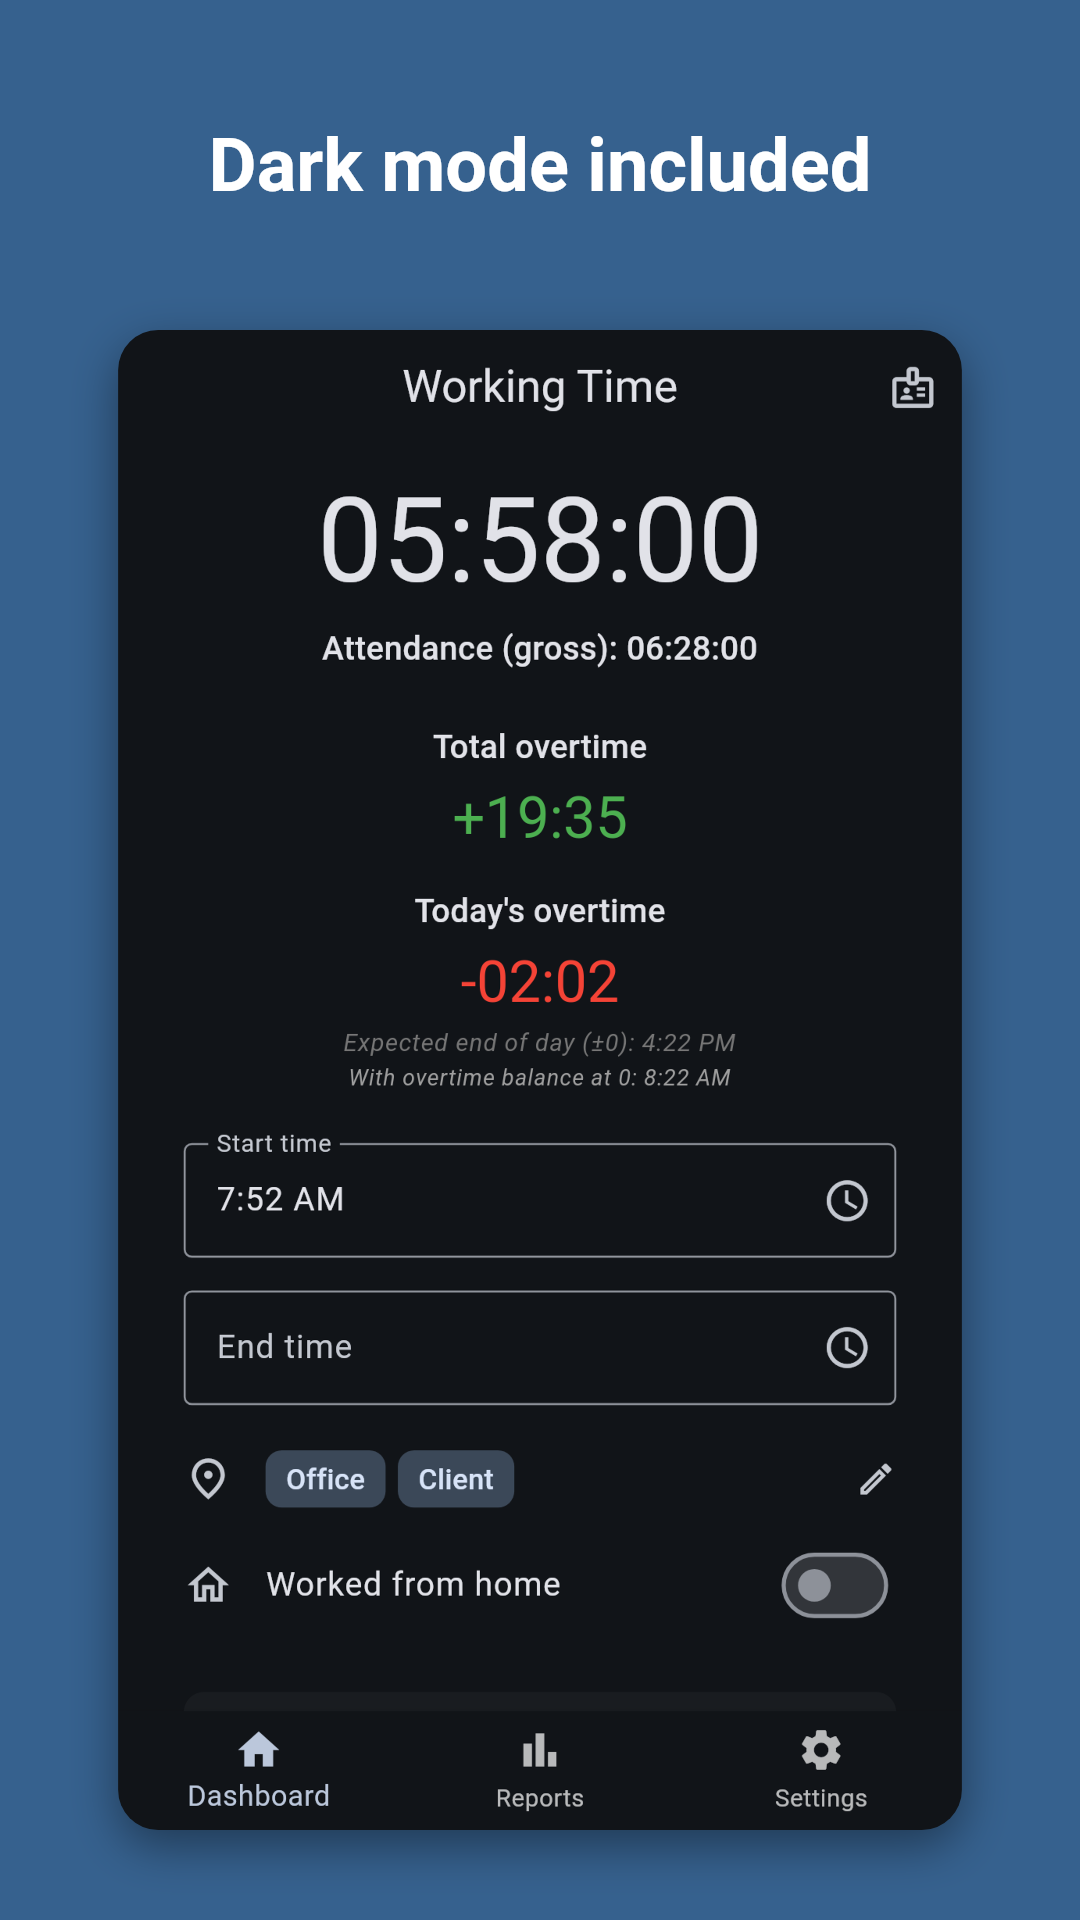
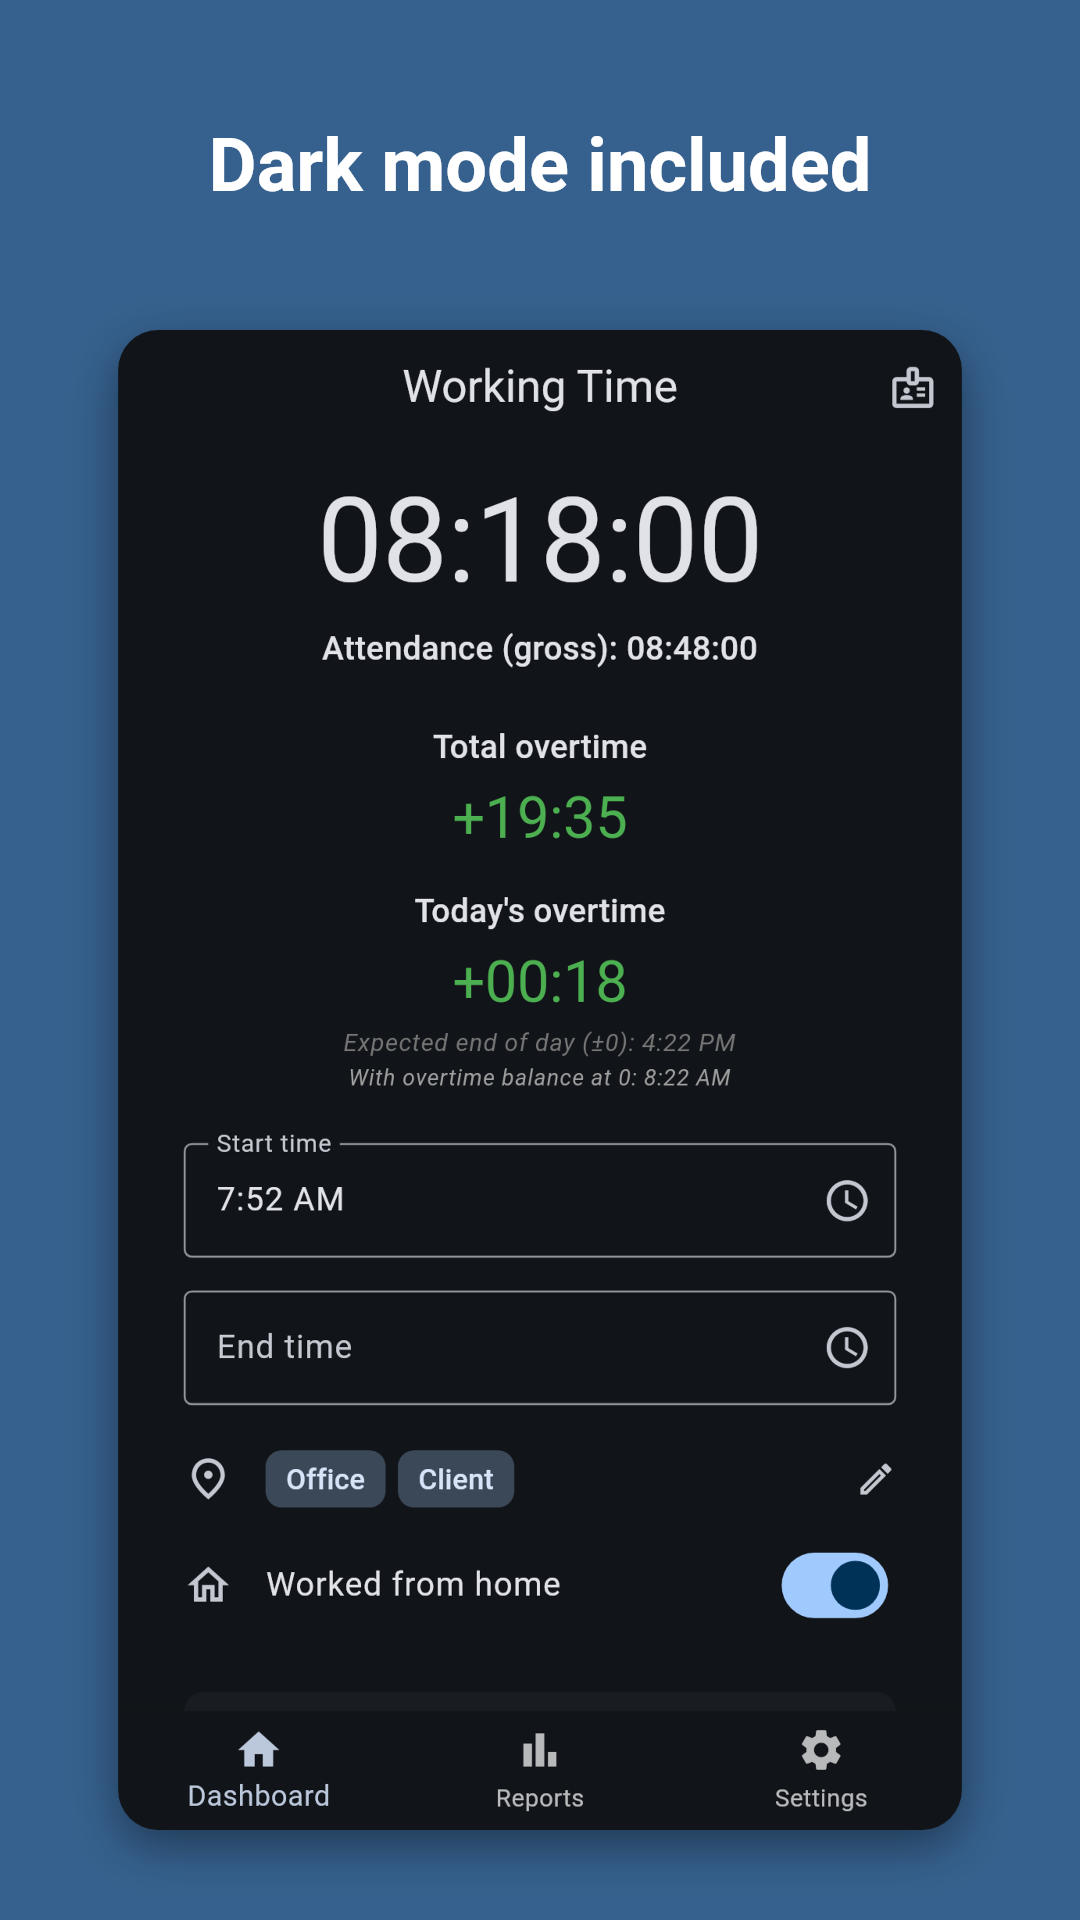
feat(mobile): Store-Bilder ohne Minusstunden, Blatt „Arbeitsorte“ als Bild 7 (#559)
Teil 1 von #559, Nachbesserung: feste Uhr 16:40 Uhr (heutige Überstunden
+00:18), heute vormittags Home-Office; Bild 7 zeigt das geöffnete Blatt
„Arbeitsorte“ über dem Dashboard mit eingeschaltetem Home-Office-Schalter.

Claude-Session: https://claude.ai/code/session_01VufLc1SjvenZnTTnpT3vmi

diff --git a/mobile/tool/store_screenshots/store_data.dart b/mobile/tool/store_screenshots/store_data.dart
@@ -24,9 +24,9 @@ import 'package:flutter_work_time/domain/utils/german_holidays.dart';
 import 'package:flutter_work_time/domain/utils/iso_week.dart';
 import 'package:flutter_work_time/domain/utils/report_calculator.dart';
 
-/// Feste Uhr aller Bilder: Mittwoch, 11.11.2026, 14:20 Uhr (laufender Tag
-/// mit Timer, die Vorwoche KW 45 ist vollständig).
-final storeNow = DateTime(2026, 11, 11, 14, 20);
+/// Feste Uhr aller Bilder: Mittwoch, 11.11.2026, 16:40 Uhr (laufender Tag
+/// mit Timer kurz nach dem Tagessoll, die Vorwoche KW 45 ist vollständig).
+final storeNow = DateTime(2026, 11, 11, 16, 40);
 final storeToday = DateTime(storeNow.year, storeNow.month, storeNow.day);
 
 /// Tag, den Tages- und Wochenbericht zeigen (Mittwoch der KW 45).
@@ -48,12 +48,19 @@ class StoreTexts {
     required this.client,
     required this.lunch,
     required this.coffee,
+    required this.warehouse,
+    required this.fair,
   });
 
   final String office;
   final String client;
   final String lunch;
   final String coffee;
+
+  /// Weitere Orte (gelegentlich), erscheinen als Vorschläge im Blatt
+  /// „Arbeitsorte“.
+  final String warehouse;
+  final String fair;
 }
 
 const storeTextsDe = StoreTexts(
@@ -61,6 +68,8 @@ const storeTextsDe = StoreTexts(
   client: 'Kunde',
   lunch: 'Mittagspause',
   coffee: 'Kaffeepause',
+  warehouse: 'Lager',
+  fair: 'Messe',
 );
 
 const storeTextsEn = StoreTexts(
@@ -68,6 +77,8 @@ const storeTextsEn = StoreTexts(
   client: 'Client',
   lunch: 'Lunch',
   coffee: 'Coffee break',
+  warehouse: 'Warehouse',
+  fair: 'Trade fair',
 );
 
 StoreTexts storeTextsFor(String locale) =>
@@ -108,7 +119,8 @@ DateTime _at(DateTime d, int minutes) =>
 
 /// Arbeitstag nach festem Muster mit etwas Streuung (Zufall mit dem Datum als
 /// Startwert, also bei jedem Lauf gleich): Di und Do Home-Office, Mo und Fr
-/// im Büro, mittwochs Büro und nachmittags beim Kunden. Freitags kürzer,
+/// im Büro (montags in geraden Wochen auch im Lager, am ersten Freitag im
+/// Monat auf der Messe), mittwochs Büro und nachmittags beim Kunden. Freitags kürzer,
 /// mittwochs länger, im Schnitt ein paar Minuten über dem Soll.
 WorkEntryEntity _workDay(DateTime d, StoreTexts t) {
   final rnd = Random(d.year * 10000 + d.month * 100 + d.day);
@@ -151,12 +163,16 @@ WorkEntryEntity _workDay(DateTime d, StoreTexts t) {
         ? const []
         : wd == 3
             ? [t.office, t.client]
-            : [t.office],
+            : wd == 1 && isoWeekNumber(d).isEven
+                ? [t.office, t.warehouse]
+                : wd == 5 && d.day <= 7
+                    ? [t.office, t.fair]
+                    : [t.office],
   );
 }
 
 /// Der laufende Tag [storeToday]: Start 7:52, Mittagspause 12:10–12:40,
-/// Timer läuft (kein Ende). Mittwoch: Büro und Kunde.
+/// Timer läuft (kein Ende). Vormittags Home-Office, danach Büro und Kunde.
 WorkEntryEntity storeTodayEntry(StoreTexts t) => WorkEntryEntity(
       id: storeDayKey(storeToday),
       date: storeToday,
@@ -169,6 +185,7 @@ WorkEntryEntity storeTodayEntry(StoreTexts t) => WorkEntryEntity(
           end: _at(storeToday, 12 * 60 + 40),
         ),
       ],
+      isHomeOffice: true,
       workLocations: [t.office, t.client],
     );
 

diff --git a/mobile/tool/store_screenshots/store_screenshots_test.dart b/mobile/tool/store_screenshots/store_screenshots_test.dart
@@ -24,6 +24,7 @@ import 'package:flutter_work_time/core/providers/providers.dart';
 import 'package:flutter_work_time/core/providers/subscription_provider.dart';
 import 'package:flutter_work_time/core/services/version_service.dart';
 import 'package:flutter_work_time/core/theme/app_theme.dart';
+import 'package:flutter_work_time/data/repositories/work_location_history.dart';
 import 'package:flutter_work_time/domain/entities/settings_entity.dart';
 import 'package:flutter_work_time/domain/entities/user_entity.dart';
 import 'package:flutter_work_time/domain/entities/work_profile_entity.dart';
@@ -34,6 +35,7 @@ import 'package:flutter_work_time/presentation/state/settings_state.dart';
 import 'package:flutter_work_time/presentation/view_models/open_entry_view_model.dart';
 import 'package:flutter_work_time/presentation/view_models/reports_view_model.dart';
 import 'package:flutter_work_time/presentation/view_models/settings_view_model.dart';
+import 'package:flutter_work_time/presentation/widgets/dashboard_work_locations.dart';
 import 'package:flutter_work_time/presentation/widgets/yearly_comparison_card.dart';
 import 'package:intl/date_symbol_data_local.dart';
 import 'package:shared_preferences/shared_preferences.dart';
@@ -195,10 +197,14 @@ final _motifs = <_Motif>[
       await _settle(t, 4);
     },
   ),
-  // 7 Dashboard: Arbeitsorte und Home-Office.
+  // 7 Blatt „Arbeitsorte“ über dem Dashboard; dahinter bleiben Orte und der
+  // eingeschaltete Home-Office-Schalter sichtbar. Ohne geöffnete Vorschläge:
+  // die Liste öffnet nach oben und verdeckt sonst die eingetragenen Orte.
   _Motif(
     act: (t, c) async {
-      await _scrollTo(t, find.text(_l10n(t).startTimeLabel), alignment: 0.02);
+      await _scrollTo(t, find.text(_l10n(t).overtimeTodayLabel), alignment: 0);
+      await t.tap(find.byType(DashboardWorkLocations));
+      await _settle(t, 6);
     },
   ),
   // 8 wie 1 im Dunkelmodus.
@@ -362,6 +368,10 @@ Future<ui.Image> _renderScreen(
   SharedPreferences.setMockInitialValues({});
   final prefs = await SharedPreferences.getInstance();
   final work = FakeWorkRepository()..store.addAll(entries);
+  // Ortsverlauf (Vorschläge im Blatt „Arbeitsorte“) wie in der App aus den
+  // gelesenen Einträgen.
+  final history = WorkLocationHistory(prefs, userId: _user.id)
+    ..record(entries.values);
   final overtime = FakeOvertimeRepository()
     ..stored = balance
     ..lastUpdate = storeToday;
@@ -390,6 +400,7 @@ Future<ui.Image> _renderScreen(
     workProfilesProvider
         .overrideWith((ref) async => const <WorkProfileEntity>[]),
     versionServiceProvider.overrideWithValue(_NoUpdate()),
+    workLocationHistoryProvider.overrideWithValue(history),
   ]);
   if (motif.tab != null) {
     container.read(pendingReportTabIndexProvider.notifier).state = motif.tab;

diff --git a/mobile/CLAUDE.md b/mobile/CLAUDE.md
@@ -306,8 +306,8 @@ flutter test tool/store_screenshots
 flutter test tool/store_screenshots --dart-define=STORE_PLAIN_OUT=<ordner>
 ```
 
-- **Werkzeug:** `tool/store_screenshots/` (liegt außerhalb von `test/`, läuft also nicht im normalen `flutter test` und nicht in der CI; `flutter analyze` prüft es mit, `dart format` aus der CI-Zeile nicht, deshalb nach Änderungen `dart format tool/store_screenshots`). `store_data.dart`: erfundener Datensatz (40-h-Woche, NRW, 2025 und 2026, Urlaub, Krankheit, Feiertage, Home-Office Di/Do, Orte „Büro“/„Kunde“ bzw. „Office“/„Client“), feste Uhr Mi 11.11.2026, 14:20 Uhr; `StoreApi` beantwortet Trend, Jahreswerte, Jahresvergleich und Urlaubsbilanz aus denselben Einträgen mit `report_calculator.dart`, Tages-/Wochen-/Monatsbericht kommen aus der lokalen Rechnung. `headlines.dart`: Überschriften de/en der Variante B (Store-Texte, bewusst nicht in den ARB-Dateien). Roboto und Material-Icons kommen aus dem Flutter-SDK (`bin/cache/artifacts/material_fonts`).
-- **Format:** PNG 1080 × 1920 (9:16), App-Bildschirm 412 dp breit; angemeldet mit Premium, ohne Statusleiste und Geräterahmen. Motive: 1 Dashboard mit laufendem Timer, 2 Tagesbericht mit Kalender, 3 Wochenbericht, 4 Trend und Prognose, 5 Jahresvergleich, 6 Jahres-Tab mit „PDF-Export“-Menü, 7 Dashboard mit Arbeitsorten und Home-Office, 8 wie 1 im Dunkelmodus.
+- **Werkzeug:** `tool/store_screenshots/` (liegt außerhalb von `test/`, läuft also nicht im normalen `flutter test` und nicht in der CI; `flutter analyze` prüft es mit, `dart format` aus der CI-Zeile nicht, deshalb nach Änderungen `dart format tool/store_screenshots`). `store_data.dart`: erfundener Datensatz (40-h-Woche, NRW, 2025 und 2026, Urlaub, Krankheit, Feiertage, Home-Office Di/Do, Orte „Büro“/„Kunde“ bzw. „Office“/„Client“), feste Uhr Mi 11.11.2026, 16:40 Uhr (Timer läuft, Tag kurz über dem Soll; heute vormittags Home-Office, danach Büro und Kunde); `StoreApi` beantwortet Trend, Jahreswerte, Jahresvergleich und Urlaubsbilanz aus denselben Einträgen mit `report_calculator.dart`, Tages-/Wochen-/Monatsbericht kommen aus der lokalen Rechnung. `headlines.dart`: Überschriften de/en der Variante B (Store-Texte, bewusst nicht in den ARB-Dateien). Roboto und Material-Icons kommen aus dem Flutter-SDK (`bin/cache/artifacts/material_fonts`).
+- **Format:** PNG 1080 × 1920 (9:16), App-Bildschirm 412 dp breit; angemeldet mit Premium, ohne Statusleiste und Geräterahmen. Motive: 1 Dashboard mit laufendem Timer, 2 Tagesbericht mit Kalender, 3 Wochenbericht, 4 Trend und Prognose, 5 Jahresvergleich, 6 Jahres-Tab mit „PDF-Export“-Menü, 7 Blatt „Arbeitsorte“ über dem Dashboard (Home-Office-Schalter dahinter sichtbar), 8 wie 1 im Dunkelmodus.
 - **Neu erzeugen**, wenn sich eine der gezeigten Seiten sichtbar ändert (Layout, Texte, Theme) oder vor einem Release mit neuen Funktionen; danach jedes Bild ansehen. Die Bilder hängen nicht vom Ausführungsdatum ab.
 
 ### Code Generation
